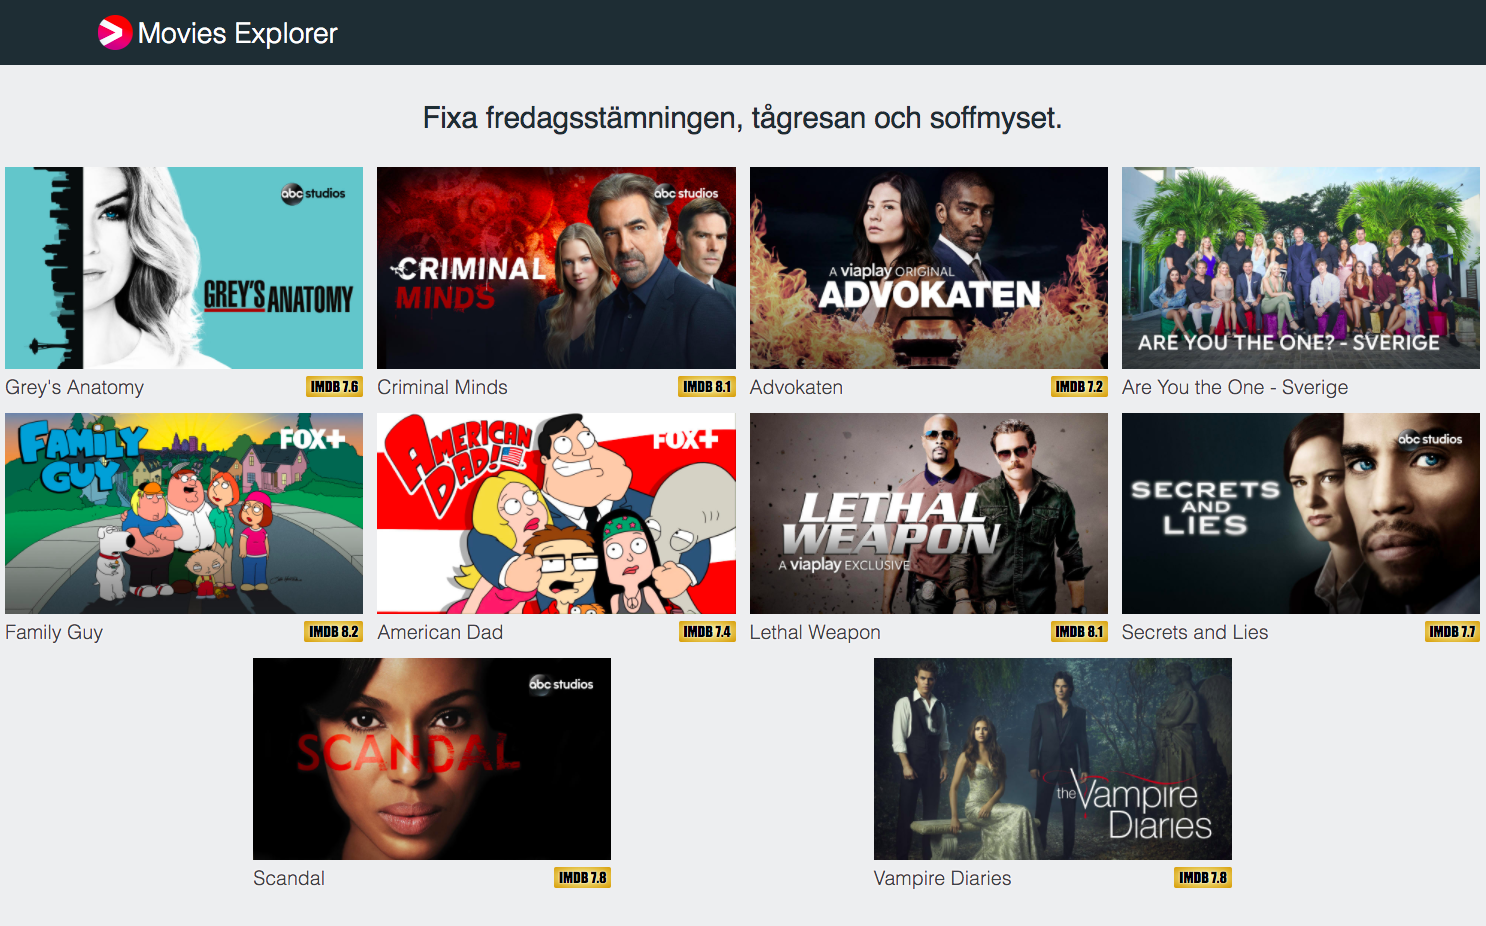
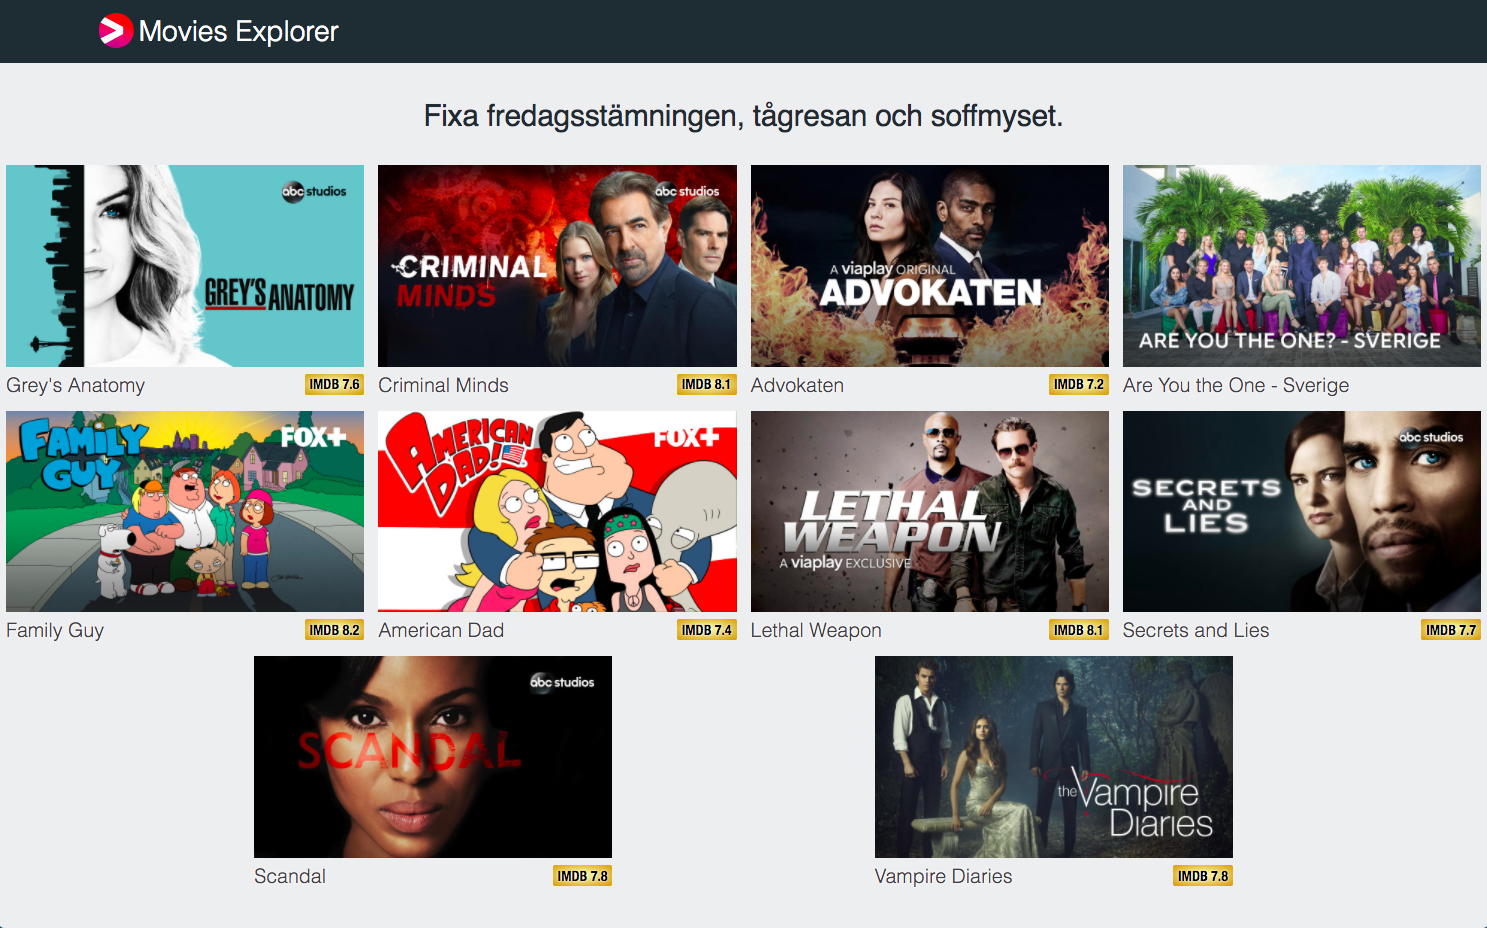
Updated IMDB rating font and the screenshot

diff --git a/src/styles/MovieCard.css b/src/styles/MovieCard.css
@@ -11,7 +11,7 @@
 }
 
 .movie-card .badge {
-  font-family: Impact, HelveticaNeue-CondensedBold, sans-serif;
+  font-family: HelveticaNeue-CondensedBold, sans-serif;
   color: #000;
   text-shadow: 0 0 .15em #fff;
   max-height: 1.5em;
